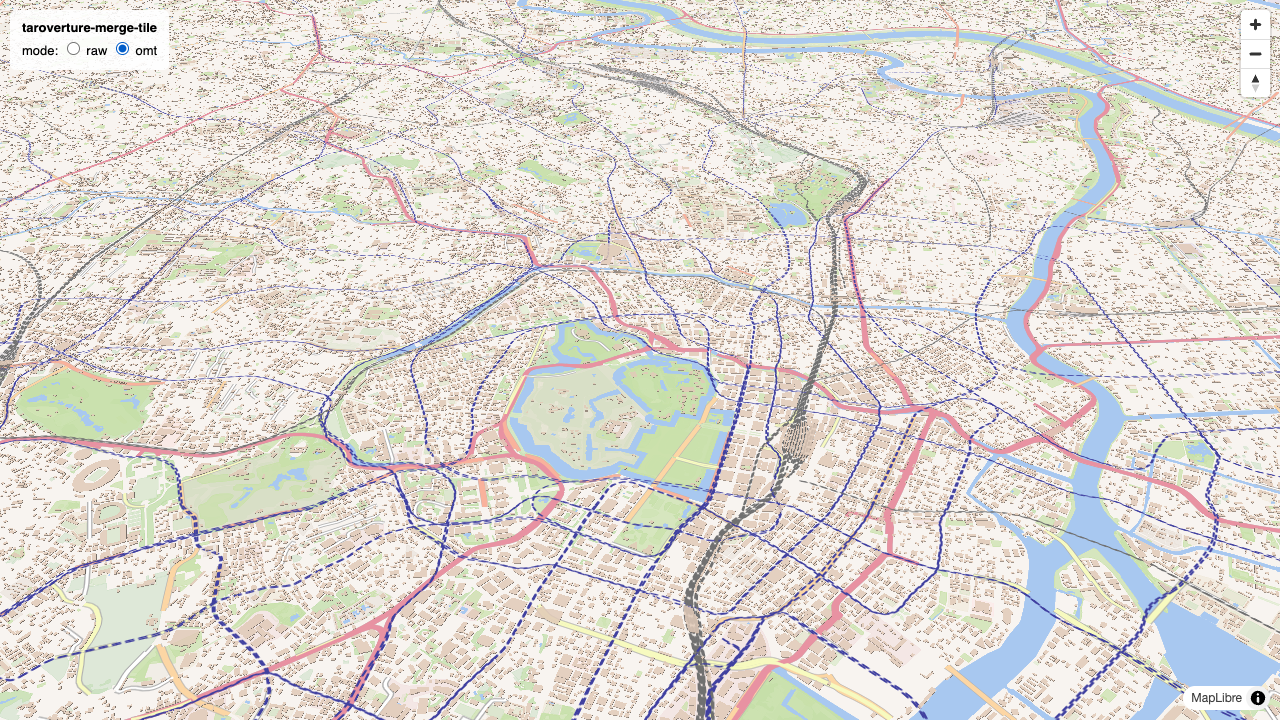
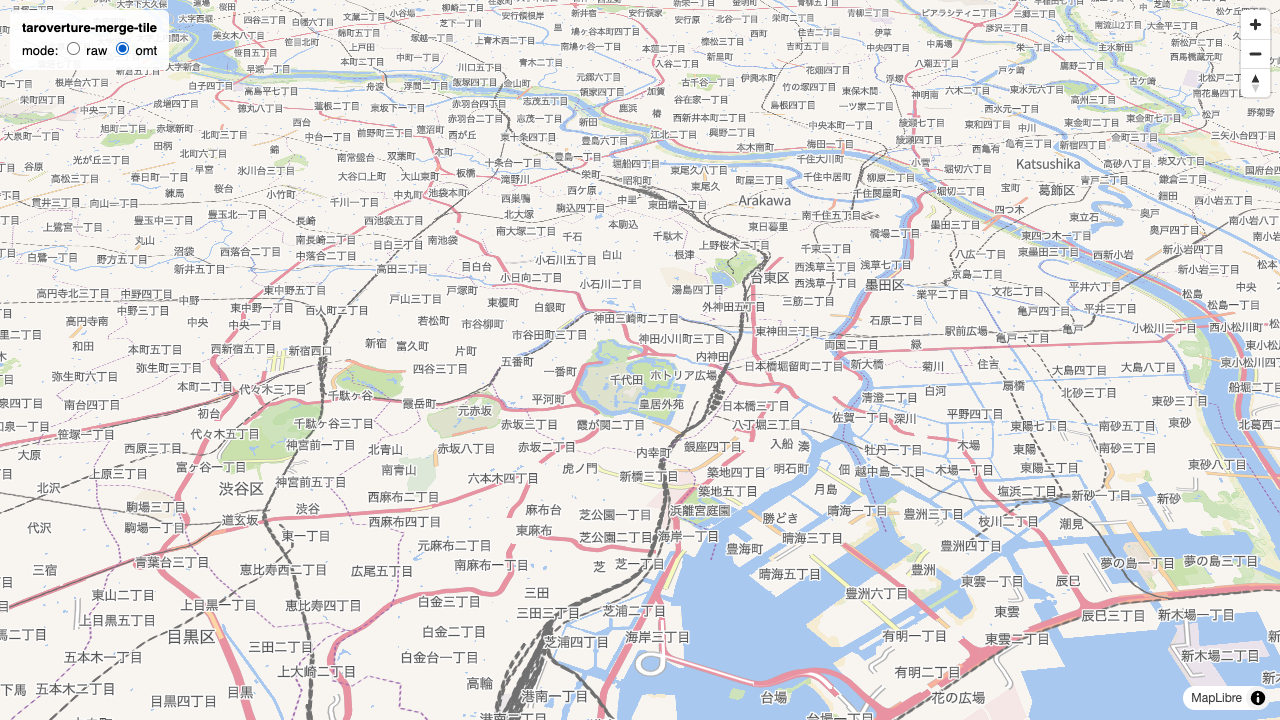
Add divisions transformers (boundary + place) and shared names helper
- division_boundary -> boundary: subtype -> admin_level (Overture 公式階層: country=2 ... neighborhood=10)、class=maritime -> maritime、is_disputed -> disputed
- division -> place: subtype -> OMT place class (county->province, neighborhood->neighbourhood 等)。locality は Overture class (city/town/village/hamlet) を採用。division_area は OMT に対応がないため破棄
- @user/names -> name/name_en/name:ja の変換を names.ts に共通化 (transportation と divisions で共用)
- デモに boundary ライン + 日本語 place ラベル (yuiseki.dev の Noto Sans CJK JP) を追加
- 実データ検証: 東京 z12 で boundary 23 (admin_level=6)、place 718 (neighbourhood 708/city 6/province 4)

diff --git a/test/divisions.test.ts b/test/divisions.test.ts
@@ -1,0 +1,109 @@
+import { test } from "node:test";
+import assert from "node:assert/strict";
+import { divisionBoundary, division } from "../src/transform/omt/divisions.js";
+
+const LINE = 2;
+const POINT = 1;
+
+const boundaryInput = (properties: Record<string, unknown>, zoom = 12) => ({
+  theme: "divisions",
+  layer: "division_boundary",
+  zoom,
+  type: LINE,
+  properties,
+});
+
+const divisionInput = (properties: Record<string, unknown>, zoom = 12) => ({
+  theme: "divisions",
+  layer: "division",
+  zoom,
+  type: POINT,
+  properties,
+});
+
+// ---- division_boundary -> boundary ----
+
+test("boundary: subtype から admin_level が決まる", () => {
+  const cases: Array<[string, number]> = [
+    ["country", 2],
+    ["region", 4],
+    ["county", 6],
+    ["localadmin", 7],
+    ["locality", 8],
+    ["neighborhood", 10],
+  ];
+  for (const [subtype, expected] of cases) {
+    const out = divisionBoundary(boundaryInput({ subtype, class: "land" }));
+    assert.equal(out[0]?.layer, "boundary", subtype);
+    assert.equal(out[0]?.properties.admin_level, expected, subtype);
+  }
+});
+
+test("boundary: class=maritime は maritime=1、land は 0", () => {
+  const maritime = divisionBoundary(boundaryInput({ subtype: "country", class: "maritime" }));
+  assert.equal(maritime[0]?.properties.maritime, 1);
+  const land = divisionBoundary(boundaryInput({ subtype: "country", class: "land" }));
+  assert.equal(land[0]?.properties.maritime, 0);
+});
+
+test("boundary: is_disputed は disputed=1", () => {
+  const out = divisionBoundary(
+    boundaryInput({ subtype: "country", class: "land", is_disputed: true }),
+  );
+  assert.equal(out[0]?.properties.disputed, 1);
+});
+
+test("boundary: disputed なしは disputed=0", () => {
+  const out = divisionBoundary(boundaryInput({ subtype: "country", class: "land" }));
+  assert.equal(out[0]?.properties.disputed, 0);
+});
+
+test("boundary: 未知の subtype は破棄される", () => {
+  assert.equal(divisionBoundary(boundaryInput({ subtype: "galaxy", class: "land" })).length, 0);
+});
+
+// ---- division -> place ----
+
+test("place: country/region/county のマッピング", () => {
+  const cases: Array<[string, string]> = [
+    ["country", "country"],
+    ["region", "state"],
+    ["county", "province"],
+    ["macrohood", "suburb"],
+    ["neighborhood", "neighbourhood"],
+    ["microhood", "neighbourhood"],
+    ["borough", "borough"],
+  ];
+  for (const [subtype, expected] of cases) {
+    const out = division(divisionInput({ subtype, "@name": "テスト" }));
+    assert.equal(out[0]?.layer, "place", subtype);
+    assert.equal(out[0]?.properties.class, expected, subtype);
+  }
+});
+
+test("place: locality は Overture class (city/town/...) を使う", () => {
+  const city = division(divisionInput({ subtype: "locality", class: "city", "@name": "東京" }));
+  assert.equal(city[0]?.properties.class, "city");
+  const hamlet = division(divisionInput({ subtype: "locality", class: "hamlet", "@name": "x" }));
+  assert.equal(hamlet[0]?.properties.class, "hamlet");
+  // class がない locality は town 扱い
+  const noClass = division(divisionInput({ subtype: "locality", "@name": "x" }));
+  assert.equal(noClass[0]?.properties.class, "town");
+});
+
+test("place: 多言語名が引き継がれる", () => {
+  const out = division(
+    divisionInput({
+      subtype: "neighborhood",
+      "@name": "千住東一丁目",
+      names: '{"common":{"en":"Senju-azuma 1-chome","ja":"千住東一丁目"},"primary":"千住東一丁目"}',
+    }),
+  );
+  assert.equal(out[0]?.properties.name, "千住東一丁目");
+  assert.equal(out[0]?.properties.name_en, "Senju-azuma 1-chome");
+  assert.equal(out[0]?.properties["name:ja"], "千住東一丁目");
+});
+
+test("place: 名前のない division は破棄される", () => {
+  assert.equal(division(divisionInput({ subtype: "neighborhood" })).length, 0);
+});

diff --git a/src/transform/omt/divisions.ts b/src/transform/omt/divisions.ts
@@ -1,0 +1,82 @@
+// Overture divisions テーマ -> OpenMapTiles "boundary" / "place" レイヤー
+//
+// 参考: openmaptiles/layers/boundary/boundary.yaml, place/place.yaml
+//
+// Overture divisions の subtype は行政階層を表し、OSM の admin_level と
+// 対応がとれる (https://docs.overturemaps.org/schema/concepts/by-theme/divisions/):
+//   country=2, dependency=3, region=4, macrocounty=5, county=6,
+//   localadmin=7, locality=8, borough=9, neighborhood=10, ...
+//
+// division_boundary (ライン) -> boundary
+// division (ポイント)        -> place (地名ラベルの源泉は places テーマではなくこちら)
+// division_area (ポリゴン)   -> 対応なし (OMT は行政界ポリゴンを持たない)
+import type { TransformFn } from "../index.js";
+import { namesOf } from "./names.js";
+
+const ADMIN_LEVEL: Record<string, number> = {
+  country: 2,
+  dependency: 3,
+  macroregion: 3,
+  region: 4,
+  macrocounty: 5,
+  county: 6,
+  localadmin: 7,
+  locality: 8,
+  borough: 9,
+  macrohood: 10,
+  neighborhood: 10,
+  microhood: 11,
+};
+
+export const divisionBoundary: TransformFn = ({ properties }) => {
+  const subtype = properties.subtype;
+  if (typeof subtype !== "string") return [];
+  const adminLevel = ADMIN_LEVEL[subtype];
+  if (adminLevel === undefined) return [];
+  return [
+    {
+      layer: "boundary",
+      properties: {
+        admin_level: adminLevel,
+        maritime: properties.class === "maritime" ? 1 : 0,
+        disputed: properties.is_disputed === true ? 1 : 0,
+      },
+    },
+  ];
+};
+
+// division subtype -> OMT place class
+const PLACE_CLASS: Record<string, string> = {
+  country: "country",
+  dependency: "country",
+  region: "state",
+  macroregion: "state",
+  macrocounty: "province",
+  county: "province",
+  localadmin: "town",
+  borough: "borough",
+  macrohood: "suburb",
+  neighborhood: "neighbourhood",
+  microhood: "neighbourhood",
+};
+
+// locality の Overture class でそのまま OMT place class になる値
+const LOCALITY_CLASSES = new Set(["city", "town", "village", "hamlet"]);
+
+export const division: TransformFn = ({ properties }) => {
+  const subtype = properties.subtype;
+  if (typeof subtype !== "string") return [];
+
+  let placeClass: string | undefined;
+  if (subtype === "locality") {
+    const cls = properties.class;
+    placeClass = typeof cls === "string" && LOCALITY_CLASSES.has(cls) ? cls : "town";
+  } else {
+    placeClass = PLACE_CLASS[subtype];
+  }
+  if (placeClass === undefined) return [];
+
+  const names = namesOf(properties);
+  if (names === null) return [];
+  return [{ layer: "place", properties: { ...names, class: placeClass } }];
+};

diff --git a/docs/index.html b/docs/index.html
@@ -84,6 +84,7 @@
     function omtStyle(base) {
       return {
         version: 8,
+        glyphs: "https://yuiseki.dev/static/fonts/{fontstack}/{range}.pbf",
         sources: { merged: { type: "vector", url: `${base}/tiles/omt/tile.json` } },
         layers: [
           { id: "bg", type: "background", paint: { "background-color": "#f8f4f0" } },
@@ -213,6 +214,38 @@
               "fill-extrusion-height": ["get", "render_height"],
               "fill-extrusion-base": ["get", "render_min_height"],
               "fill-extrusion-opacity": 0.85,
+            },
+          },
+          {
+            id: "boundary",
+            type: "line",
+            source: "merged",
+            "source-layer": "boundary",
+            filter: ["==", ["get", "maritime"], 0],
+            paint: {
+              "line-color": "#9e6aae",
+              "line-width": ["match", ["get", "admin_level"], 2, 2.5, 4, 1.8, 1],
+              "line-dasharray": [3, 2],
+            },
+          },
+          {
+            id: "place-label",
+            type: "symbol",
+            source: "merged",
+            "source-layer": "place",
+            layout: {
+              "text-field": ["get", "name"],
+              "text-font": ["Noto Sans CJK JP Regular"],
+              "text-size": [
+                "match", ["get", "class"],
+                "country", 18, "state", 16, "province", 15, "city", 14, "town", 13,
+                11,
+              ],
+            },
+            paint: {
+              "text-color": "#444444",
+              "text-halo-color": "#ffffff",
+              "text-halo-width": 1.5,
             },
           },
         ],

diff --git a/src/transform/omt/names.ts b/src/transform/omt/names.ts
@@ -1,0 +1,30 @@
+// Overture の名前属性 -> OMT の name / name_en / name:ja
+//
+// タイル内の Overture フィーチャは以下を持つ:
+//   @name: primary 名 (タイル生成時の convenience 属性)
+//   names: {"common": {"en": ..., "ja": ...}, "primary": ...} の JSON 文字列
+import type { Properties } from "../index.js";
+
+export function parseJson(v: unknown): unknown {
+  if (typeof v !== "string") return undefined;
+  try {
+    return JSON.parse(v);
+  } catch {
+    return undefined;
+  }
+}
+
+export function namesOf(properties: Properties): Record<string, string> | null {
+  const name = properties["@name"];
+  if (typeof name !== "string" || name === "") return null;
+  const out: Record<string, string> = { name };
+  const parsed = parseJson(properties.names) as
+    | { common?: Record<string, unknown> }
+    | undefined;
+  const common = parsed?.common;
+  if (common) {
+    if (typeof common.en === "string") out.name_en = common.en;
+    if (typeof common.ja === "string") out["name:ja"] = common.ja;
+  }
+  return out;
+}

diff --git a/src/transform/omt/transportation.ts b/src/transform/omt/transportation.ts
@@ -7,6 +7,7 @@
 // Overture の segment.class は OSM の highway 値由来なので OMT class へはほぼ素通しで、
 // residential 等 -> minor、footway 等 -> path の集約だけ行う。
 import type { TransformFn, TransformOutput, Properties } from "../index.js";
+import { namesOf, parseJson } from "./names.js";
 
 // OMT class -> 表示開始ズーム (OMT の標準的な minzoom に概ね合わせた PoC 値)
 const CLASS_MINZOOM: Record<string, number> = {
@@ -44,15 +45,6 @@ const TRANSIT_VALUES = new Set(["subway", "light_rail", "monorail", "tram"]);
 const SERVICE_VALUES = new Set(["parking_aisle", "driveway", "alley", "spur", "yard", "siding"]);
 
 const PAVED_VALUES = new Set(["paved", "asphalt", "concrete", "paving_stones", "sett"]);
-
-function parseJson(v: unknown): unknown {
-  if (typeof v !== "string") return undefined;
-  try {
-    return JSON.parse(v);
-  } catch {
-    return undefined;
-  }
-}
 
 // Overture の (subtype, class) -> OMT の (class, subclass)
 function omtClass(
@@ -107,22 +99,6 @@ function surfaceOf(properties: Properties): string | undefined {
   const value = (parsed[0] as { value?: unknown }).value;
   if (typeof value !== "string") return undefined;
   return PAVED_VALUES.has(value) ? "paved" : "unpaved";
-}
-
-// names: {common: {en: ..., ja: ...}, primary: ...} から多言語名を引く
-function namesOf(properties: Properties): Record<string, string> | null {
-  const name = properties["@name"];
-  if (typeof name !== "string" || name === "") return null;
-  const out: Record<string, string> = { name };
-  const parsed = parseJson(properties.names) as
-    | { common?: Record<string, unknown> }
-    | undefined;
-  const common = parsed?.common;
-  if (common) {
-    if (typeof common.en === "string") out.name_en = common.en;
-    if (typeof common.ja === "string") out["name:ja"] = common.ja;
-  }
-  return out;
 }
 
 const NAME_MINZOOM = 12;

diff --git a/src/transform/omt/index.ts b/src/transform/omt/index.ts
@@ -9,8 +9,9 @@
 //   [x] base/land                -> landcover
 //   [x] base/land_cover          -> landcover
 //   [x] base/land_use            -> landuse, park, landcover
-//   [ ] divisions/division_boundary -> boundary
-//   [ ] places/place             -> poi, place
+//   [x] divisions/division_boundary -> boundary
+//   [x] divisions/division       -> place
+//   [ ] places/place             -> poi
 //   [ ] addresses/address        -> housenumber
 import type { TransformRegistry } from "../index.js";
 import { building, buildingPart } from "./building.js";
@@ -18,6 +19,7 @@ import { segment } from "./transportation.js";
 import { water } from "./water.js";
 import { land, landCover } from "./landcover.js";
 import { landUse } from "./landuse.js";
+import { divisionBoundary, division } from "./divisions.js";
 
 export const omtRegistry: TransformRegistry = {
   "buildings/building": building,
@@ -27,6 +29,8 @@ export const omtRegistry: TransformRegistry = {
   "base/land": land,
   "base/land_cover": landCover,
   "base/land_use": landUse,
+  "divisions/division_boundary": divisionBoundary,
+  "divisions/division": division,
 };
 
 // omt モードが出力しうる OMT レイヤー名 (tile.json の vector_layers 用)
@@ -38,4 +42,6 @@ export const omtOutputLayers = [
   "landcover",
   "landuse",
   "park",
+  "boundary",
+  "place",
 ];